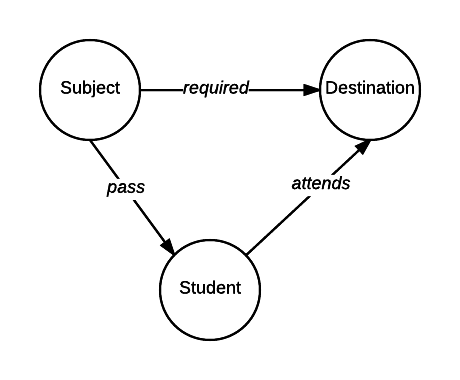
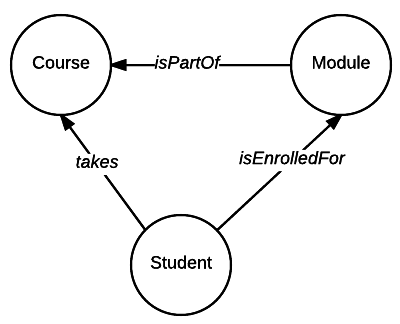
Updates tutorial/Conceptual_model_enrollment.md
Auto commit by GitBook Editor

diff --git a/tutorial/Conceptual_model_enrollment.md b/tutorial/Conceptual_model_enrollment.md
@@ -11,7 +11,7 @@ We have three ingredients:
 Before we discuss these three main ingredients, we will discuss the other keywords you see in the code:
 
 * INTERFACE is not crucial for the conceptual model, but still crucial for the web application. It uses the conceptual model to define the tabs and fields displayed. We will come back to this later.
-* The test after MEANING and PURPOSE is printed in the documentation that RAP3 can generate. 
+* The text after MEANING and PURPOSE is printed in the documentation that RAP3 can generate. 
 * MESSAGE and VIOLATION are used to display messages on screen to the user about rule violations. 
 * POPULATION provides the web application with actual data to test the rules with. Adding data to the system can also be done with an excel sheet. The data consist of elements that populate the concepts and whether or not these elements are connected to each other in a specific relation. 
 
@@ -19,25 +19,25 @@ Before we discuss these three main ingredients, we will discuss the other keywor
 
 The goal of the model is to define rules that will govern the behavior of the system. Rules are about relations and relations link elements of one concept with elements of another concept. So we need all three ingredients to define the model. Deciding about these ingredients, their name and their attributes is exactly the modeling that you will learn in this course.
 
-The conceptual model of Hawaii can be represented with a diagram:
+The conceptual model of Enrollment can be represented with a diagram:
 
-![](/assets/Model Hawaii.png)
+![](/assets/BR course  - Pagina 1.png)
 
-In the code you can find the MEANING of each relation in natural English. In the model, each relation represents a set of pairs. The relation pass is filled with \(subject, student\)-pairs that each specify a specific subject that has been passed by a specific student. The same student can appear in more pairs and the same subject can appear in more pairs. A specific pair \(x,y\) can only appear in the set once.
+In the code you can find the MEANING of each relation in natural English. In the model, each relation represents a set of pairs. The relation `takes` is filled with `(Student, Course)` -pairs that each specify a specific course that the student is taking. The same student can appear in more pairs and the same course can appear in more pairs. A specific pair \(x,y\) can only appear in the set once.
+
+In the code you see the keyword `[TOT]` with the definition of the relation `takes`. This means that eacht student must take at least one course.
 
 ### Assignment
 
-**Question 1**: given the initial dataset in the source-code of Hawaii, what pairs are in the relation requires?
+**Question 1**: given the initial dataset in the source-code of Enrollment, what pairs are in the relation `isPartOf`?
 
-**Question 2**: given the initial dataset in the source-code of Hawaii, which students will attend which destinations?
+**Question 2**: given the initial dataset in the source-code of Enrollment, which students are enrolled for which modules?
 
 ## The rule
 
-_THIS PART IS INCORRECT, WILL BE FIXED...._
+So let’s finally go to the one rule that governs this information system: `isEnrolledFor |- takes ; isPartOf~`
 
-So let’s finally go to the one rule that governs this information system: `attends |- pass~;required`
-
-The rule consists of two parts with the `|-` as separator. On each side of the separator you find a relation. On the left the relation `attends` and on the right-hand side you see a relation that is not explicitly defined in the model, but it is constructed from two relations that are in the model: `pass~`\(pronounced as “pass-flip”, indicating the relation in opposite direction\) and `required`. This constructed relation consists of \(student, destination\)-pairs where the student has passed the subject and that same subject is required for that destination. Let’s call this new relation qualifies\_for.
+The rule consists of two parts with the `|-` as separator. On each side of the separator you find a relation. On the left-hand side we have the relation `isEnrolledFor` and on the right-hand side you see a relation that is not explicitly defined in the model. This relation is constructed from two relations that are in the model: `takes `and `isPartOf~` \(pronounced as “isPartOf-flip”, indicating the relation in opposite direction\). This constructed relation consists of \(`Student`, `Module`\)-pairs where the student is following a course that contains the module. Let’s call this new relation `can_enroll`.
 
 Now we have the following rule: "attends implies qualifies\_for".
 
